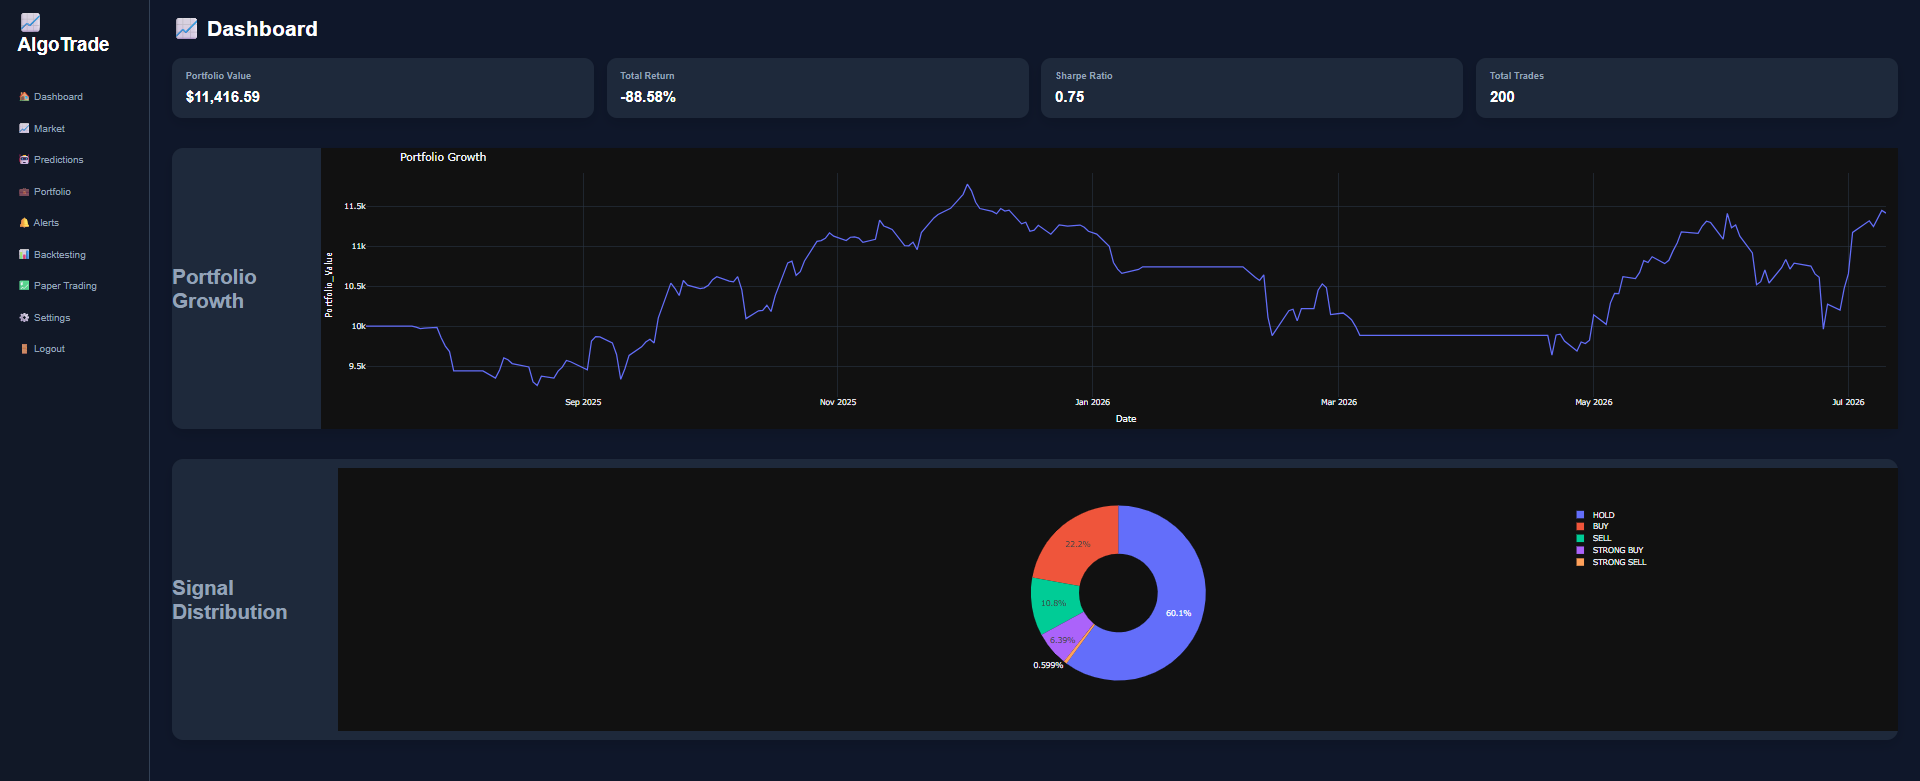
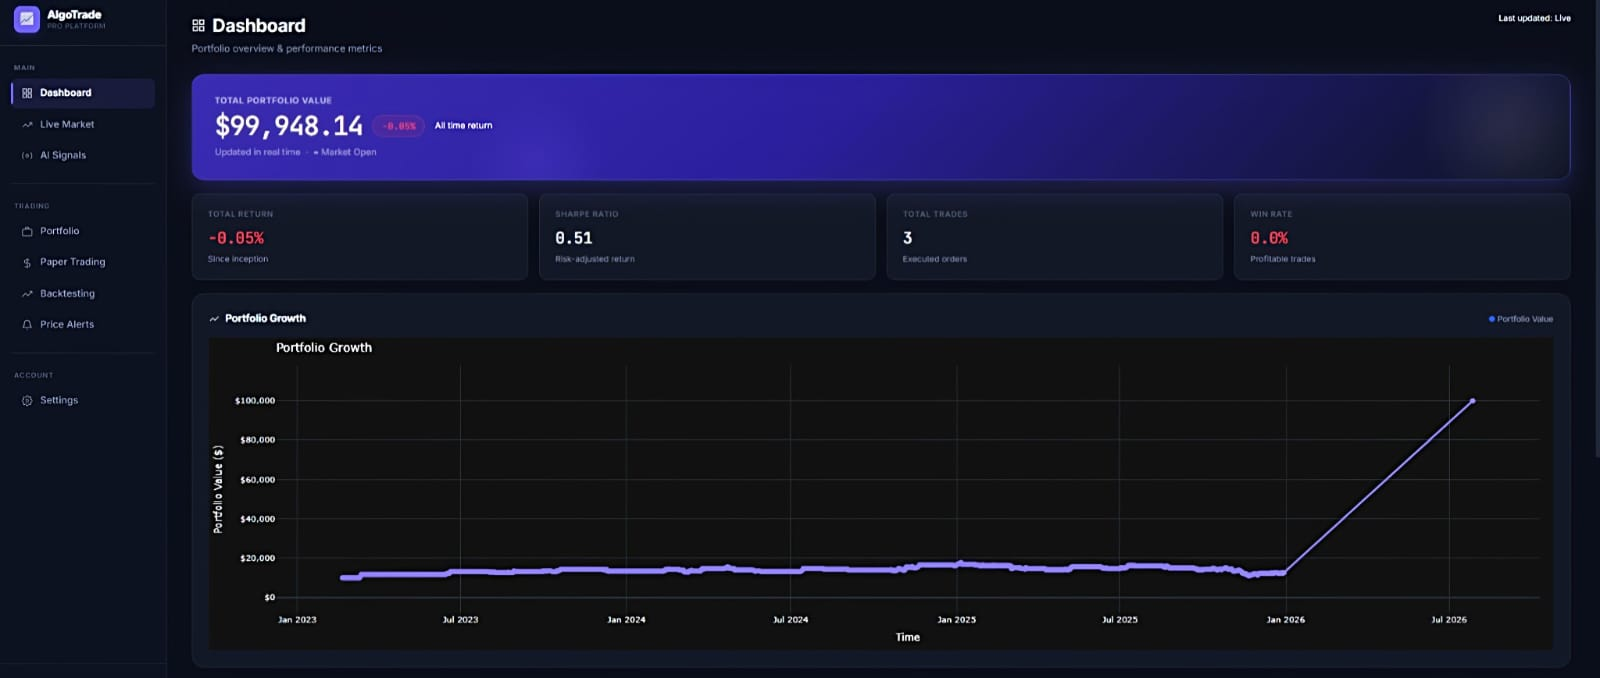
Add professional README, screenshots and project documentation

diff --git a/README.md b/README.md
@@ -1,59 +1,55 @@
-# 📈 Algorithmic Trading Platform
+# 📈 AlgoTrade Pro – AI Powered Algorithmic Trading Platform
 
-An end-to-end AI-powered Algorithmic Trading Platform built using **Python**, **Flask**, **Machine Learning**, and **XGBoost**. The platform enables users to analyze markets, generate AI trading signals, backtest strategies, manage a virtual portfolio through paper trading, and monitor portfolio performance using live market data.
+An end-to-end AI-powered algorithmic trading platform built using **Python, Flask, XGBoost, JavaScript, HTML/CSS, SQLite, and Plotly**.
+
+The platform enables users to analyze markets, generate AI trading signals, backtest strategies, manage portfolios, paper trade, and monitor live financial markets—all through a modern web interface.
 
 ---
 
 ## 🚀 Features
 
-### 🔐 Authentication
-- User Login & Registration
-- Secure Session Management
-
-### 📊 Dashboard
-- Portfolio Overview
-- Live Market Summary
-- Interactive Analytics
-
-### 📈 Live Market Data
-- Real-time prices using Yahoo Finance
-- Multiple asset classes:
-  - Stocks
-  - Cryptocurrencies
-  - Indices
-  - Commodities
-  - Forex
-
 ### 🤖 AI Trading Signals
-- XGBoost-based prediction engine
-- BUY / SELL signal generation
-- Confidence Score
-- Risk Level
-- Trend Detection
-- AI Recommendations
+- XGBoost-powered BUY / SELL predictions
+- Confidence score for every prediction
+- Risk assessment
+- Trend analysis
+- Technical indicator based reasoning
+- Supports multiple asset classes
 
-### 📉 Strategy Backtesting
-- Historical Strategy Simulation
-- Performance Summary
+### 📊 Strategy Backtesting
+- Compare AI Strategy vs Buy & Hold
+- Total Return
+- Sharpe Ratio
+- Maximum Drawdown
+- Win Rate
 - Trade History
-- Equity Curve
-- Profit/Loss Analysis
+- Interactive Equity Curve
 
-### 💰 Paper Trading
-- Virtual Portfolio
-- Buy & Sell Orders
-- Live Pricing
-- Portfolio Allocation
-- Trade History
-- Portfolio Analytics
+### 💼 Portfolio Management
+- Track investments
+- Portfolio allocation
+- Profit & Loss analysis
+- Holdings management
 
-### 🔔 Price Alerts
-- Above / Below Price Alerts
-- Live Price Monitoring
+### 📄 Paper Trading
+- Simulate trading without risking real money
+- Virtual portfolio
+- Performance tracking
 
-### ⚙ Settings
-- User Preferences
-- Configurable Trading Environment
+### 📈 Live Market Dashboard
+- Live market prices
+- Candlestick charts
+- Volatility analysis
+- Expected price movement
+
+### 🌍 Multi Asset Support
+
+- 🇺🇸 US Stocks
+- 🇮🇳 Indian Stocks
+- ₿ Cryptocurrencies
+- 💱 Forex
+- 📊 Global Indices
+- 🛢 Commodities
 
 ---
 
@@ -62,91 +58,86 @@ An end-to-end AI-powered Algorithmic Trading Platform built using **Python**, **
 ### Backend
 - Python
 - Flask
+
+### Machine Learning
 - XGBoost
 - Scikit-learn
+- Joblib
+
+### Data Analysis
 - Pandas
 - NumPy
-- Plotly
-- yFinance
+- TA (Technical Analysis Library)
+
+### Market Data
+- Yahoo Finance API (yfinance)
+
+### Database
+- SQLite
 
 ### Frontend
 - HTML5
 - CSS3
 - JavaScript
 
-### Database
-- SQLite
-
 ### Visualization
 - Plotly
-- Interactive Charts
+- Chart.js
 
 ---
 
 # 📂 Project Structure
 
 ```
-Algorithmic-Trading-Platform
+Algorithmic-Trading-Platform/
 │
-├── app
-│   ├── ai_signals
-│   ├── alerts
-│   ├── analytics
-│   ├── auth
-│   ├── backtesting
-│   ├── dashboard
-│   ├── frontend
-│   ├── ml
-│   ├── paper_trading
-│   ├── portfolio
-│   ├── services
-│   └── strategies
-│
-├── config
-├── data
-├── database
-├── models
+├── app/
+├── config/
+├── data/
+├── database/
+├── models/
+├── screenshots/
+├── tests/
+├── requirements.txt
 ├── server.py
 └── README.md
 ```
 
 ---
 
-## 🔐 Login
+# 📸 Screenshots
 
-![Login](screenshots/login.png)
-
----
-
-## 📊 Dashboard
+## Dashboard
 
 ![Dashboard](screenshots/Dashboard.png)
 
 ---
 
-## 📈 Market
+## AI Signals
 
-![Market](screenshots/market.png)
-
----
-
-## 🤖 AI Signals
-
-![Signals](screenshots/signals.png)
+![AI Signals](screenshots/signals.png)
 
 ---
 
-## 💹 Paper Trading
+## Live Market
 
-![Paper Trading](screenshots/paper_trading.png)
+![Live Market](screenshots/livemarket.png)
 
 ---
 
-## 📉 Backtesting
+## Strategy Backtesting
 
-![Backtesting](screenshots/backtesting.png)
+![Backtesting](screenshots/backtest.png)
 
-# ⚡ Installation
+---
+
+## Paper Trading
+
+![Paper Trading](screenshots/papertrading.png)
+
+---
+
+# ⚙ Installation
 
 Clone the repository
 
@@ -154,19 +145,19 @@ Clone the repository
 git clone https://github.com/iirfanshk/Algorithmic-Trading-Platform.git
 ```
 
-Navigate into the project
+Move into the project
 
 ```bash
 cd Algorithmic-Trading-Platform
 ```
 
-Create Virtual Environment
+Create a virtual environment
 
 ```bash
 python -m venv .venv
 ```
 
-Activate
+Activate it
 
 Windows
 
@@ -177,27 +168,33 @@ Windows
 Install dependencies
 
 ```bash
-pip install -r app/requirements.txt
+pip install -r requirements.txt
 ```
 
-Run
+Run the application
 
 ```bash
 python server.py
 ```
 
+Open
+
+```
+http://127.0.0.1:5000
+```
+
 ---
 
-# 🎯 Future Improvements
+# 📌 Future Improvements
 
-- Google OAuth Login
-- Live Brokerage Integration
-- TradingView Charts
-- Email Notifications
-- Docker Support
-- Cloud Deployment
-- Strategy Marketplace
-- Multi-user Portfolio Tracking
+- Live brokerage integration
+- Reinforcement Learning strategies
+- Portfolio optimization
+- News sentiment analysis
+- Options trading support
+- Multi-user cloud deployment
+- Docker deployment
+- CI/CD pipeline
 
 ---
 
@@ -205,11 +202,12 @@ python server.py
 
 **Shaik Irfan**
 
-Data Science Graduate
-
 GitHub:
 https://github.com/iirfanshk
 
+LinkedIn:
+(Add your LinkedIn profile)
+
 ---
 
-## ⭐ If you found this project useful, consider giving it a star!
+## ⭐ If you like this project, don't forget to star the repository!
